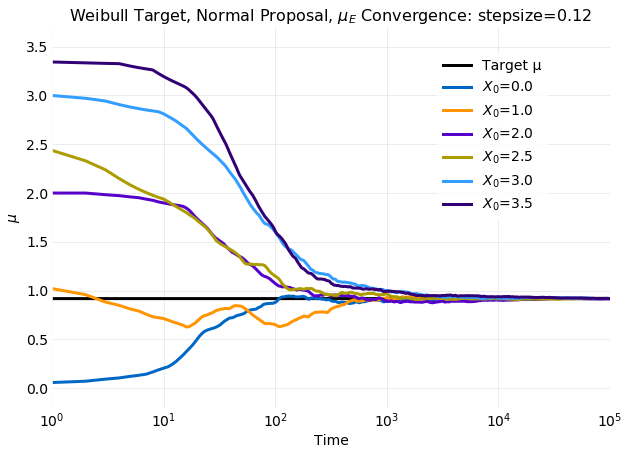
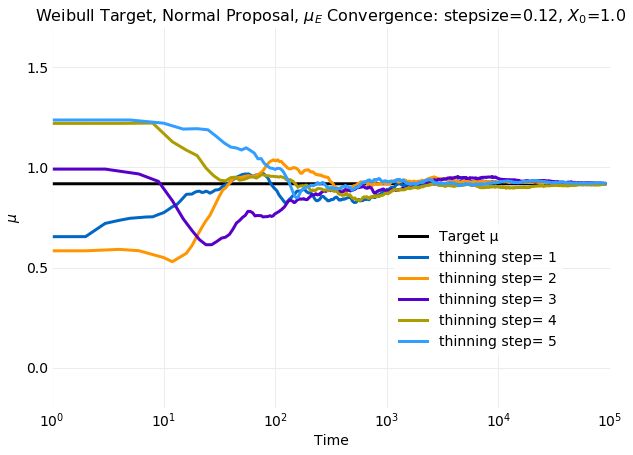
added MH thinning plots

diff --git a/hydrogen_notebooks/mcmc/metropolis_hastings/weibull_target/normal_proposal_thinning.py b/hydrogen_notebooks/mcmc/metropolis_hastings/weibull_target/normal_proposal_thinning.py
@@ -1,0 +1,114 @@
+# %%
+%load_ext autoreload
+%autoreload 2
+
+import numpy
+from matplotlib import pyplot
+from glyfish import metropolis_hastings as mh
+from glyfish import config
+from glyfish import gplot
+from glyfish import stats
+
+%matplotlib inline
+
+pyplot.style.use(config.glyfish_style)
+
+# %%
+
+k = 5.0
+λ = 1.0
+x0 = 1.0
+target_pdf = stats.weibull(k, λ)
+
+nsample = 100000
+burn_in = 10000
+stepsize = 0.12
+nsimulations = 5
+
+# %%
+# perform mimulations that scan the step size
+
+all_samples = []
+all_accepted = []
+for i in range(nsimulations):
+    samples, accepted = mh.metropolis_hastings(target_pdf, mh.normal_proposal, mh.normal_generator, stepsize, nsample=nsample, x0=x0)
+    all_samples.append(samples)
+    all_accepted.append(accepted)
+
+all_samples = numpy.array(all_samples)
+all_accepted = numpy.array(all_accepted)
+
+# %%
+
+title = title = r"Weibull Target, Normal Proposal, Autocorrelation: " + f"stepsize={format(stepsize, '2.2f')}, " + r"$X_0$="+f"{format(x0, '2.1f')}"
+nlag = 100
+nplot = len(all_samples)
+
+figure, axis = pyplot.subplots(figsize=(10, 7))
+axis.set_title(title)
+axis.set_xlabel("Time Lag")
+axis.set_xlim([0.0, nlag])
+for i in range(nplot):
+    auto_core_range = range(10000, 100000)
+    ac = stats.autocorrelate(all_samples[i][auto_core_range])
+    axis.plot(range(nlag), numpy.real(ac[:nlag]))
+config.save_post_asset(figure, "metropolis_hastings_sampling", "normal_proposal_thinning-autocorrelation")
+
+# %%
+
+thin = [1,2,3,4,5]
+
+title = title = r"Weibull Target, Normal Proposal, Autocorrelation: " + f"stepsize={format(stepsize, '2.2f')}, " + r"$X_0$="+f"{format(x0, '2.1f')}"
+nlag = 100
+nplot = len(all_samples)
+
+figure, axis = pyplot.subplots(figsize=(10, 7))
+axis.set_title(title)
+axis.set_xlabel("Time Lag")
+axis.set_xlim([0.0, nlag])
+for i in range(nplot):
+    thinned_range = range(10000, 100000, thin[i])
+    ac = stats.autocorrelate(all_samples[i][thinned_range])
+    axis.plot(range(nlag), numpy.real(ac[:nlag]), label=f"thinning step={format(thin[i], '2.0f')}")
+axis.legend(bbox_to_anchor=(0.9, 0.8))
+config.save_post_asset(figure, "metropolis_hastings_sampling", "normal_proposal_thinning-thined-autocorrelation")
+
+# %%
+
+μ = stats.weibull_mean(k, λ)
+title = r"Weibull Target, Normal Proposal, $μ_E$ Convergence: " + f"stepsize={format(stepsize, '2.2f')}, " + r"$X_0$="+f"{format(x0, '2.1f')}"
+nplot = len(all_samples)
+
+figure, axis = pyplot.subplots(figsize=(10, 7))
+axis.set_xlabel("Time")
+axis.set_ylabel(r"$μ$")
+axis.set_title(title)
+axis.set_xlim([1.0, nsample])
+axis.set_ylim([-0.2, 1.7])
+axis.yaxis.set_ticks([0.0, 0.5, 1.0, 1.5])
+axis.semilogx(range(0, nsample - burn_in), numpy.full(nsample - burn_in, μ), label="Target μ", color="#000000")
+for i in range(nplot):
+    thinned_range = range(burn_in, nsample, thin[i])
+    axis.semilogx(range(0, nsample - burn_in, thin[i]), stats.cummean(all_samples[i][thinned_range]), label=f"thinning step={format(thin[i], '2.0f')}")
+axis.legend(bbox_to_anchor=(0.6, 0.5))
+config.save_post_asset(figure, "metropolis_hastings_sampling", "normal_proposal_burnin-mean-convergence")
+
+# %%
+
+σ = stats.weibull_sigma(k, λ)
+title = r"Weibull Target, Normal Proposal, $σ_E$ Convergence: " + f"stepsize={format(stepsize, '2.2f')}, " + r"$X_0$="+f"{format(x0, '2.1f')}"
+nplot = len(all_samples)
+
+figure, axis = pyplot.subplots(figsize=(10, 7))
+axis.set_xlabel("Time")
+axis.set_ylabel(r"$μ$")
+axis.set_title(title)
+axis.set_xlim([1.0, nsample])
+axis.set_ylim([-0.1, 0.6])
+axis.yaxis.set_ticks([0.0, 0.1, 0.2, 0.3, 0.4, 0.5])
+axis.semilogx(range(0, nsample - burn_in), numpy.full(nsample - burn_in, σ), label="Target μ", color="#000000")
+for i in range(nplot):
+    thinned_range = range(burn_in, nsample, thin[i])
+    axis.semilogx(range(0, nsample - burn_in, thin[i]), stats.cumsigma(all_samples[i][thinned_range]), label=f"thinning step={format(thin[i], '2.0f')}")
+axis.legend(bbox_to_anchor=(0.6, 0.55))
+config.save_post_asset(figure, "metropolis_hastings_sampling", "normal_proposal_burnin-sigms-convergence")
